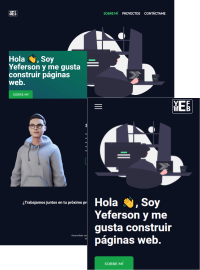
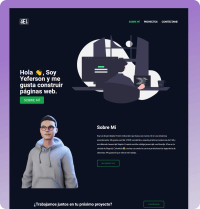
projects images add

diff --git a/src/components/Project.jsx b/src/components/Project.jsx
@@ -1,28 +1,33 @@
 import BtnMenu from "../components/BtnMenu"
 
 const Project = ({ project }) => {
+  console.log(project)
   return (
-    <div className="md:grid md:grid-cols-2 md:gap-10 md:items-center">
-      <figure className="shadow-sm shadow-light mb-8 md:m-0">
+    <div className="md:flex md:items-end md:gap-8 ">
+      <figure>
         <picture>
           <img
-            sizes="(max-width: 1066px) 100vw, 1066px"
+            sizes="(max-width: 1400px) 100vw, 1400px"
             srcSet={`
         ${project.images[200]} 200w,
-        ${project.images[590]} 590w,
-        ${project.images[738]} 738w,
-        ${project.images[864]} 864w,
-        ${project.images[982]} 982w,
-        ${project.images[1066]} 1066w,
+        ${project.images[508]} 508w,
+        ${project.images[855]} 855w,
+        ${project.images[876]} 876w,
+        ${project.images[1008]} 1008w,
+        ${project.images[1131]} 1131w,
+        ${project.images[1263]} 1263w,
+        ${project.images[1400]} 1400w,
+
+
         `}
-            src={project.images[1066]}
+            src={project.images[1400]}
             alt="Proyecto portafolio de Yeferson Olarte Roncancio"
-            className="w-full h-96"
+            className="w-full max-w-xl mx-auto"
           />
         </picture>
       </figure>
 
-      <section>
+      <section className="w-5/6 max-w-5xl border-2">
         <div className="mb-4">
           <h2 className="font-roboto font-bold text-4xl capitalize text-light mb-4">
             {project.name}

diff --git a/src/assets/projects/images-projects.js b/src/assets/projects/images-projects.js
@@ -1,19 +1,21 @@
 import portfolio200 from "./Portafolio_w_200.png"
-import portfolio422 from "./Portafolio_w_422.png"
-import portfolio590 from "./Portafolio_w_590.png"
-import portfolio738 from "./Portafolio_w_738.png"
-import portfolio864 from "./Portafolio_w_864.png"
-import portfolio982 from "./Portafolio_w_982.png"
-import portfolio1066 from "./Portafolio_w_1066.png"
+import portfolio508 from "./Portafolio_w_508.png"
+import portfolio855 from "./Portafolio_w_855.png"
+import portfolio876 from "./Portafolio_w_876.png"
+import portfolio1008 from "./Portafolio_w_1008.png"
+import portfolio1131 from "./Portafolio_w_1131.png"
+import portfolio1263 from "./Portafolio_w_1263.png"
+import portfolio1400 from "./Portafolio_w_1400.png"
 
 export const imagesProjects = {
   portfolio: {
     portfolio200,
-    portfolio422,
-    portfolio590,
-    portfolio738,
-    portfolio864,
-    portfolio982,
-    portfolio1066,
+    portfolio508,
+    portfolio855,
+    portfolio876,
+    portfolio1008,
+    portfolio1131,
+    portfolio1263,
+    portfolio1400,
   },
 }
